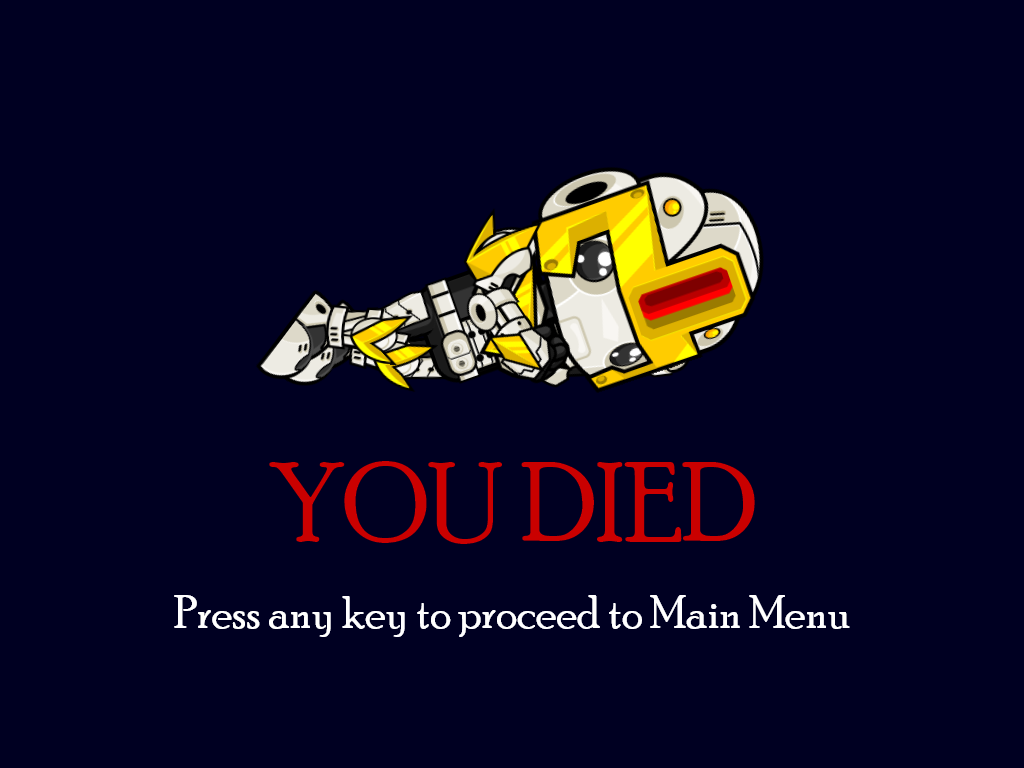
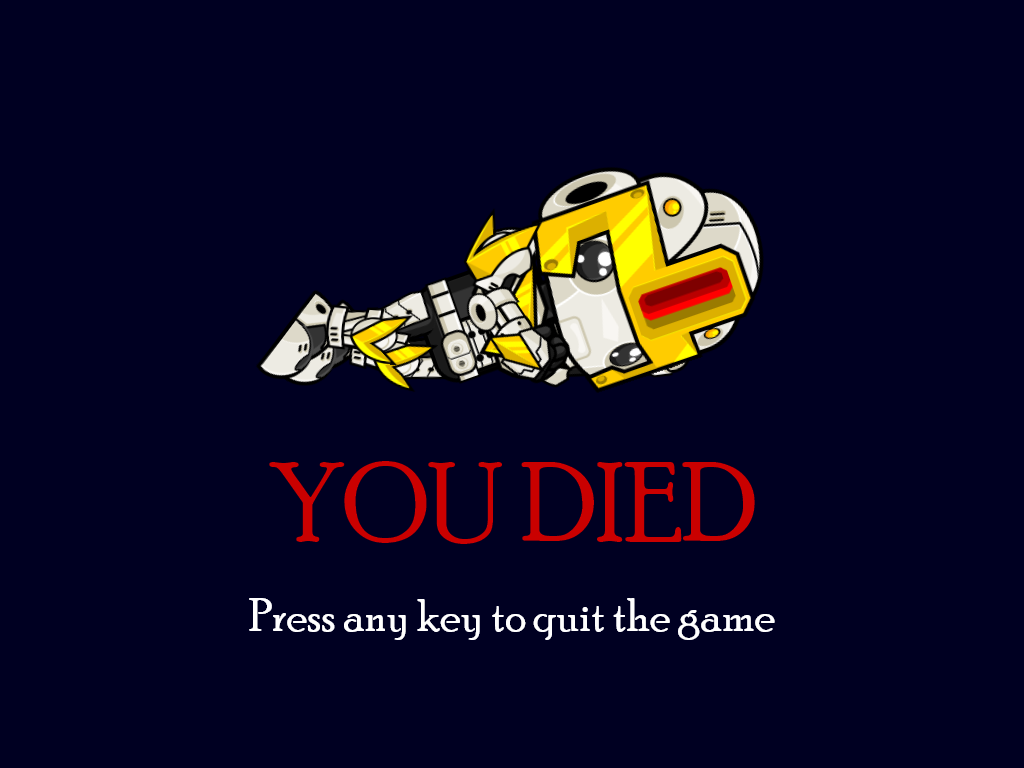
Changed to QuitGameAction

Changed region(s): [[0.1562, 0.7812, 0.8438, 0.8438]]

diff --git a/code-convier/GamePlayerDeathState.cpp b/code-convier/GamePlayerDeathState.cpp
@@ -7,7 +7,7 @@ void GamePlayerDeathState::enter(Component::State state) {
 
 FSM::Action GamePlayerDeathState::update(float frameTime, Component::State state) {
 	if (this->input->anyKeyPressed()) {
-		return PrepareMenuAction();
+		return QuitGameAction();
 	}
 	return FSM::NoAction();
 }

diff --git a/code-convier/GamePlayerDeathState.h b/code-convier/GamePlayerDeathState.h
@@ -7,7 +7,7 @@
 
 #include "PlayerDeathScreenEntity.h"
 
-#include "PrepareMenuAction.h"
+#include "QuitGameAction.h"
 
 class GamePlayerDeathState : public FSM::State {
 	FSM::Action update(float frameTime, Component::State state);
